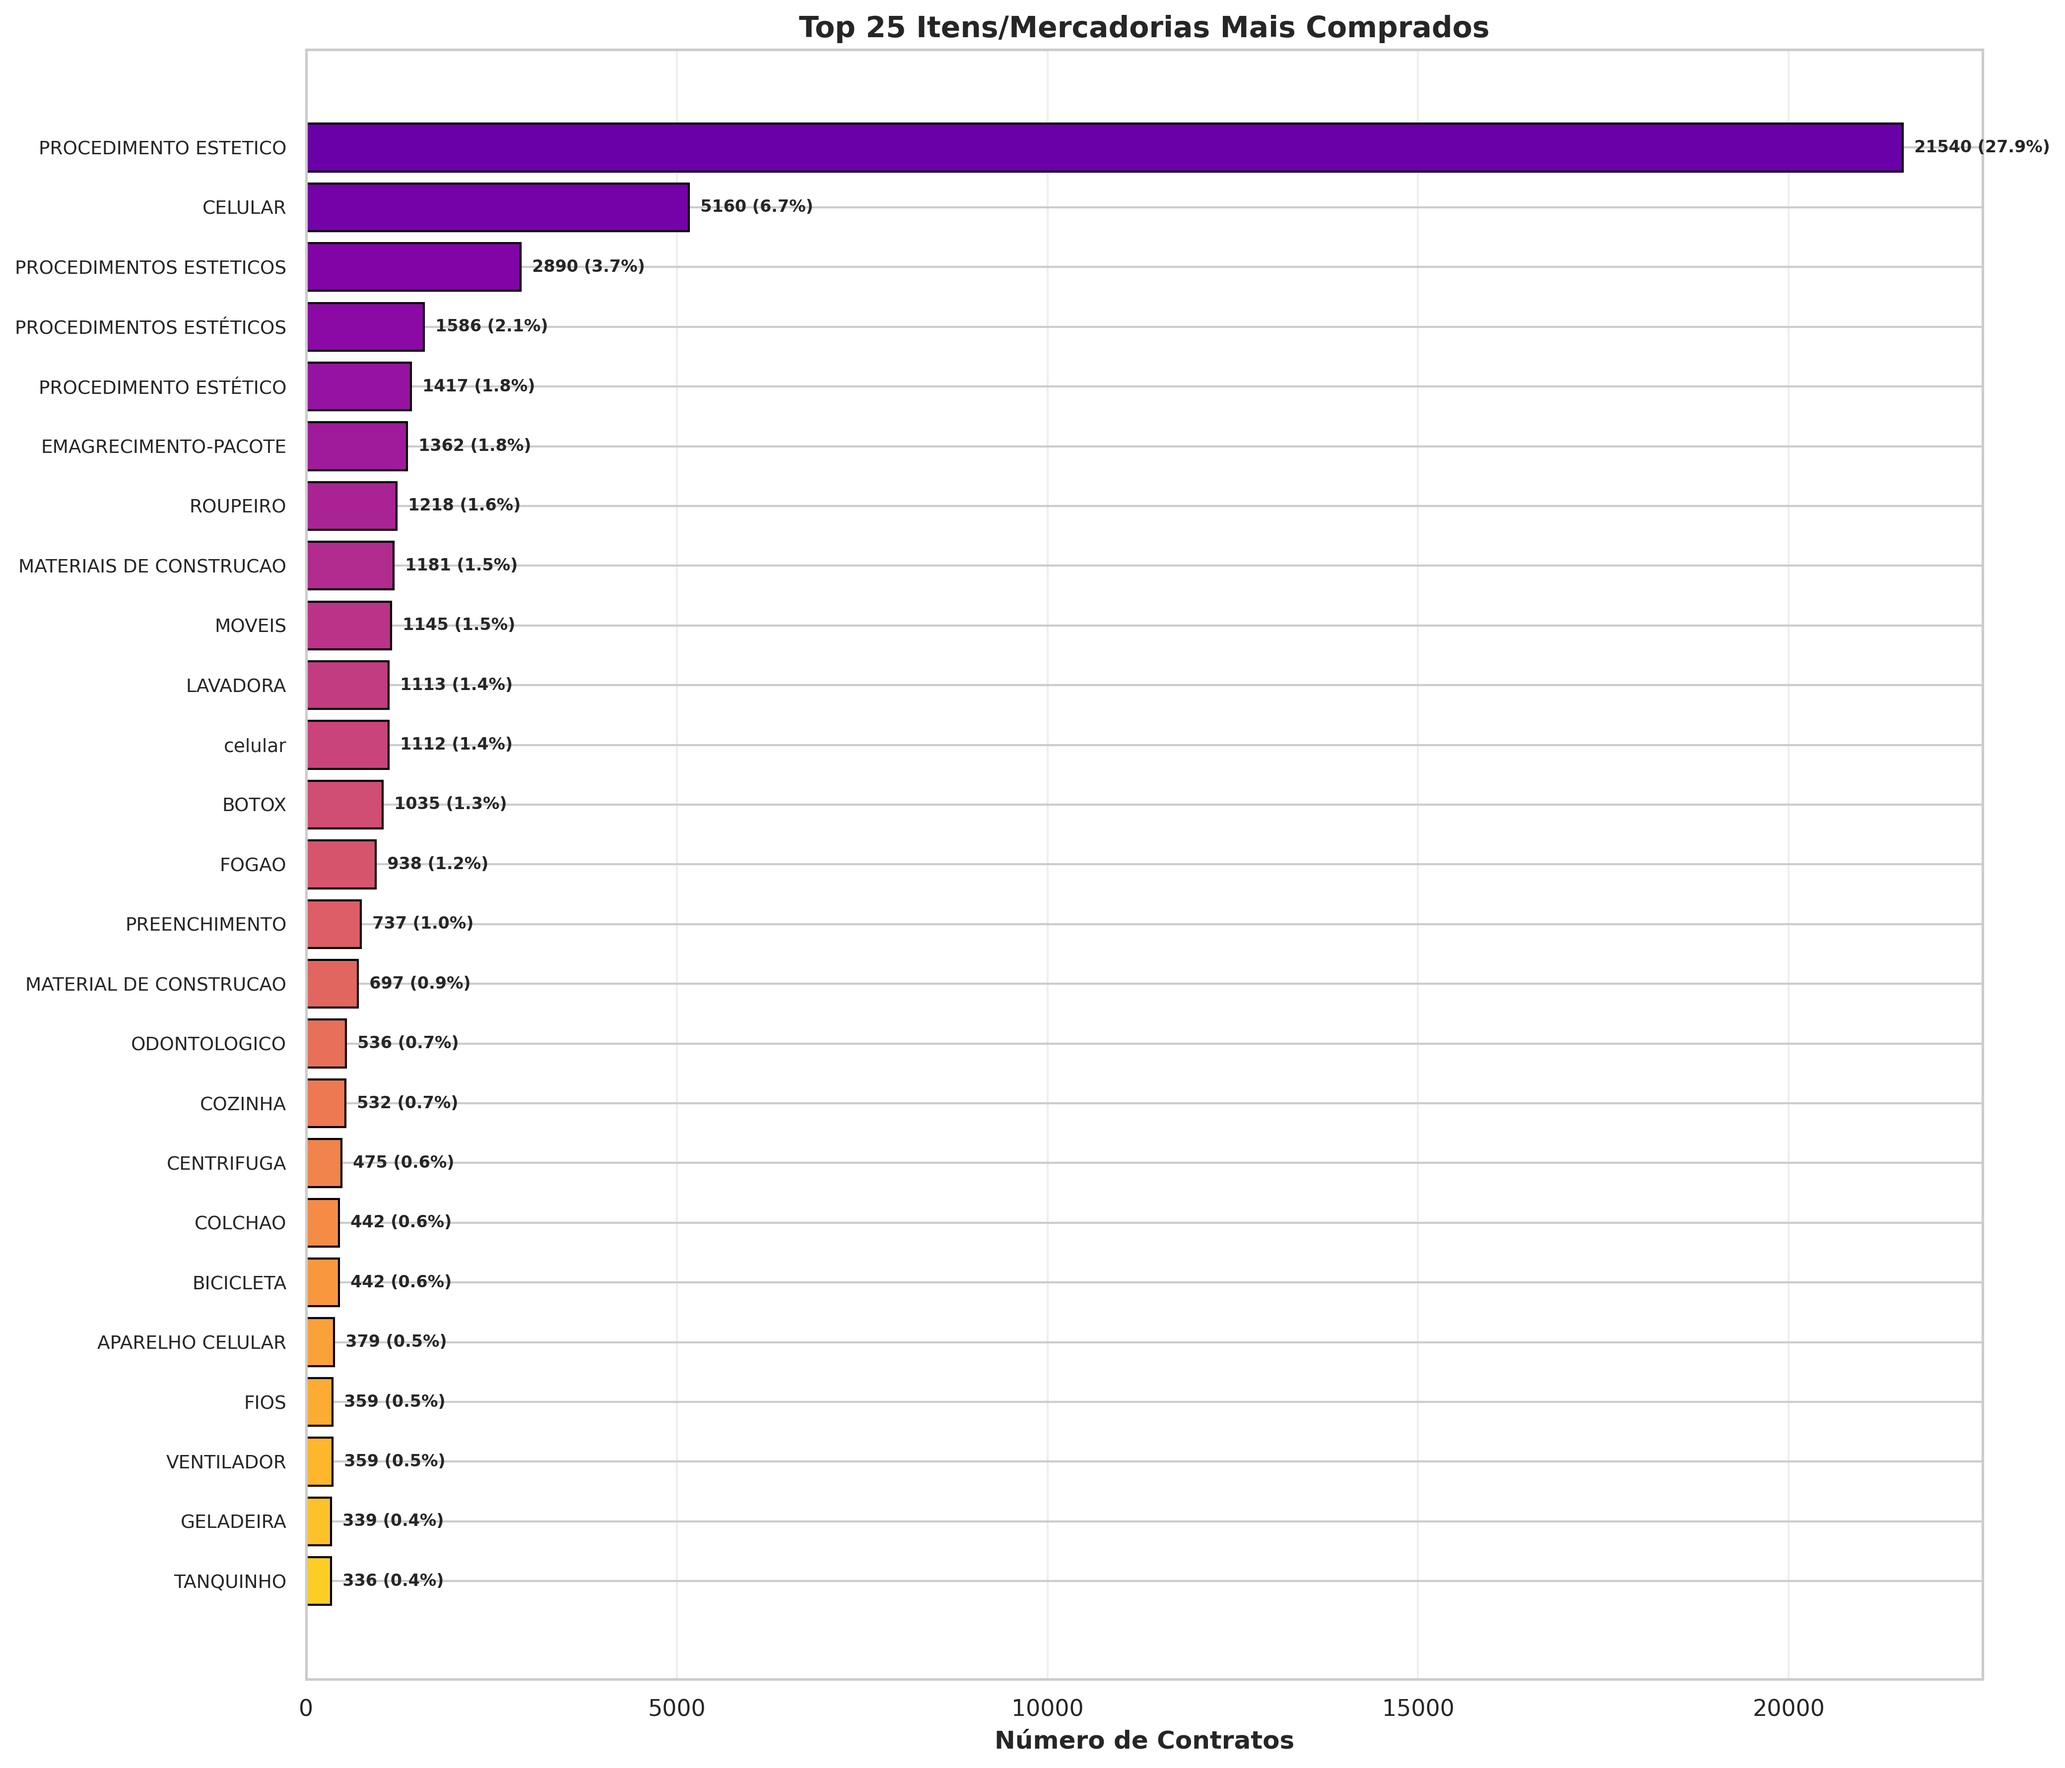
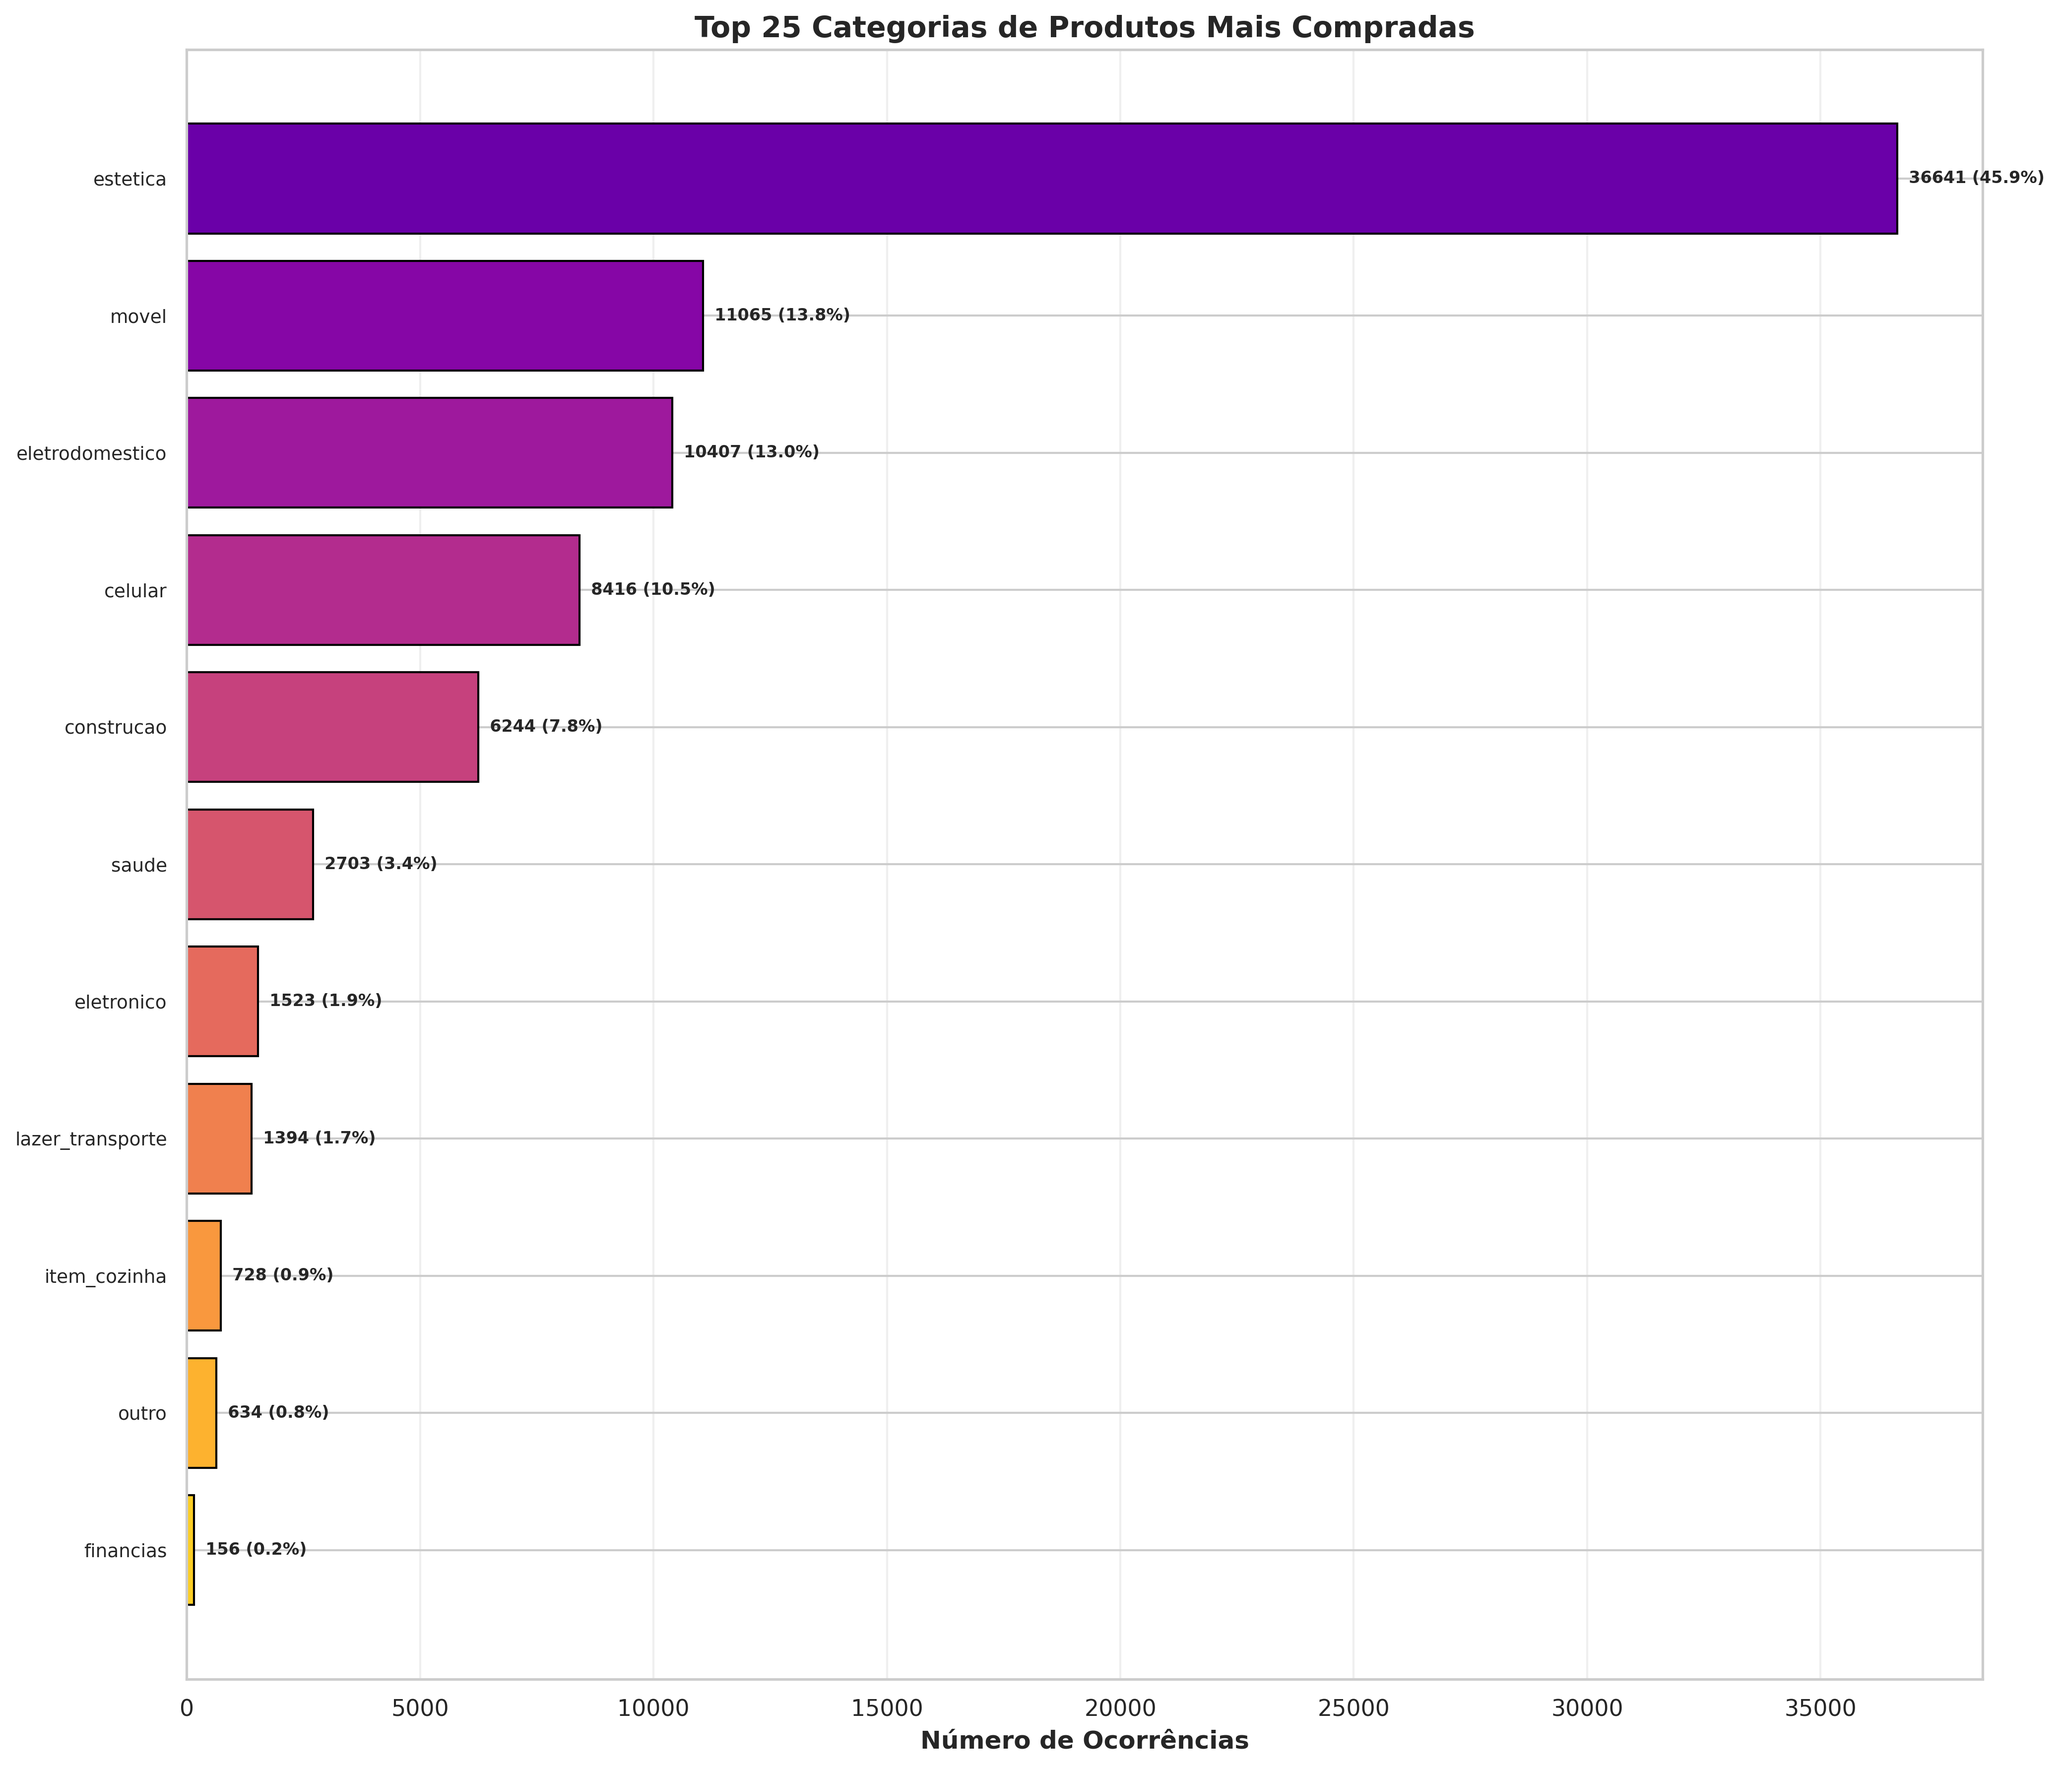
fix: Corrige análise de produtos para usar coluna 'categorias' normalizada
- Altera plot_itens_comprados() para usar 'categorias' ao invés de 'Mercadoria'
- Resolve problema de duplicatas (ex: 'procedimento estetico' vs 'procedimentos esteticos')
- A coluna 'categorias' já vem normalizada do processamento do dataset
- Suporta múltiplas categorias por contrato (expande listas)
- Atualiza relatório para mostrar top 5 categorias normalizadas
- Renomeia pasta code/analises_exploratorias -> code/analises_exploratorias_dataset1
- Atualiza gráfico 06_itens_comprados.png com categorias normalizadas

Benefícios:
- Agrupa variações de texto da mesma categoria
- Contagem mais precisa de produtos
- Visualização mais clara das categorias principais

diff --git a/code/analise_exploratoria_teste_externo/analise_exploratoria.py b/code/analise_exploratoria_teste_externo/analise_exploratoria.py
@@ -335,39 +335,82 @@ def plot_profissoes_comuns(df):
 
 
 def plot_itens_comprados(df):
-    """Gráfico dos itens/mercadorias mais comprados"""
+    """Gráfico das categorias de produtos mais compradas"""
     print("\n" + "="*80)
-    print("ANÁLISE DE PRODUTOS/MERCADORIAS")
+    print("ANÁLISE DE CATEGORIAS DE PRODUTOS")
     print("="*80)
     
-    if 'Mercadoria' not in df.columns:
-        print("⚠ AVISO: Coluna 'Mercadoria' não encontrada")
+    # Priorizar coluna 'categorias' (normalizada) ao invés de 'Mercadoria' (com variações)
+    if 'categorias' in df.columns:
+        print("✓ Usando coluna 'categorias' (normalizada)")
+        
+        # Expandir listas de categorias (um contrato pode ter múltiplas categorias)
+        from collections import Counter
+        todas_categorias = []
+        for cats in df['categorias'].dropna():
+            if isinstance(cats, list):
+                todas_categorias.extend(cats)
+            elif isinstance(cats, str):
+                # Se for string, pode estar em formato de lista
+                try:
+                    import ast
+                    cats_list = ast.literal_eval(cats) if cats.startswith('[') else [cats]
+                    todas_categorias.extend(cats_list)
+                except:
+                    todas_categorias.append(cats)
+        
+        if not todas_categorias:
+            print("⚠ AVISO: Nenhuma categoria encontrada")
+            return
+        
+        # Contar categorias
+        contador = Counter(todas_categorias)
+        top_categorias = dict(contador.most_common(25))
+        
+        print(f"\n--- Top 25 Categorias Mais Compradas ---")
+        print(f"Total de contratos analisados: {len(df):,}")
+        print(f"Total de categorias (pode haver múltiplas por contrato): {len(todas_categorias):,}")
+        for i, (item, count) in enumerate(top_categorias.items(), 1):
+            perc = count / len(todas_categorias) * 100
+            print(f"{i:2d}. {item:50s} - {count:5d} ocorrências ({perc:5.2f}%)")
+        
+        # Preparar dados para o gráfico
+        categorias_nomes = list(top_categorias.keys())
+        categorias_valores = list(top_categorias.values())
+        
+    elif 'Mercadoria' in df.columns:
+        print("⚠ Usando coluna 'Mercadoria' (pode ter duplicatas por variações de texto)")
+        mercadorias = df['Mercadoria'].dropna()
+        top_mercadorias = mercadorias.value_counts().head(25)
+        
+        print(f"\n--- Top 25 Itens/Mercadorias Mais Comprados ---")
+        for i, (item, count) in enumerate(top_mercadorias.items(), 1):
+            perc = count / len(df) * 100
+            print(f"{i:2d}. {item:50s} - {count:5d} contratos ({perc:5.2f}%)")
+        
+        categorias_nomes = list(top_mercadorias.index)
+        categorias_valores = list(top_mercadorias.values)
+    else:
+        print("⚠ ERRO: Nem 'categorias' nem 'Mercadoria' encontradas")
         return
-    
-    mercadorias = df['Mercadoria'].dropna()
-    top_mercadorias = mercadorias.value_counts().head(25)
-    
-    print(f"\n--- Top 25 Itens/Mercadorias Mais Comprados ---")
-    for i, (item, count) in enumerate(top_mercadorias.items(), 1):
-        perc = count / len(df) * 100
-        print(f"{i:2d}. {item:50s} - {count:5d} contratos ({perc:5.2f}%)")
     
     # Gráfico
     fig, ax = plt.subplots(figsize=(14, 12))
-    y_pos = range(len(top_mercadorias))
-    colors = plt.cm.plasma(np.linspace(0.2, 0.9, len(top_mercadorias)))
+    y_pos = range(len(categorias_nomes))
+    colors = plt.cm.plasma(np.linspace(0.2, 0.9, len(categorias_nomes)))
     
-    ax.barh(y_pos, top_mercadorias.values, color=colors, edgecolor='black')
+    ax.barh(y_pos, categorias_valores, color=colors, edgecolor='black')
     ax.set_yticks(y_pos)
-    ax.set_yticklabels(top_mercadorias.index, fontsize=9)
-    ax.set_xlabel("Número de Contratos", fontsize=12, fontweight='bold')
-    ax.set_title("Top 25 Itens/Mercadorias Mais Comprados", fontsize=14, fontweight='bold')
+    ax.set_yticklabels(categorias_nomes, fontsize=9)
+    ax.set_xlabel("Número de Ocorrências", fontsize=12, fontweight='bold')
+    ax.set_title("Top 25 Categorias de Produtos Mais Compradas", fontsize=14, fontweight='bold')
     ax.invert_yaxis()
     ax.grid(True, alpha=0.3, axis='x')
     
     # Adicionar valores nas barras
-    for i, v in enumerate(top_mercadorias.values):
-        perc = v / len(df) * 100
+    total = sum(categorias_valores) if 'categorias' in df.columns else len(df)
+    for i, v in enumerate(categorias_valores):
+        perc = v / total * 100
         ax.text(v, i, f'  {v} ({perc:.1f}%)', va='center', fontweight='bold', fontsize=8)
     
     plt.tight_layout()
@@ -517,8 +560,31 @@ def generate_summary_report(df):
                 f.write(f"{i}. {prof}: {count:,} ({count/len(df)*100:.2f}%)\n")
             f.write("\n")
         
-        if 'Mercadoria' in df.columns:
-            f.write("--- TOP 5 PRODUTOS ---\n")
+        # Usar 'categorias' (normalizada) ao invés de 'Mercadoria'
+        if 'categorias' in df.columns:
+            f.write("--- TOP 5 CATEGORIAS DE PRODUTOS ---\n")
+            # Expandir listas de categorias
+            from collections import Counter
+            todas_categorias = []
+            for cats in df['categorias'].dropna():
+                if isinstance(cats, list):
+                    todas_categorias.extend(cats)
+                elif isinstance(cats, str):
+                    try:
+                        import ast
+                        cats_list = ast.literal_eval(cats) if cats.startswith('[') else [cats]
+                        todas_categorias.extend(cats_list)
+                    except:
+                        todas_categorias.append(cats)
+            
+            if todas_categorias:
+                contador = Counter(todas_categorias)
+                top_cat = contador.most_common(5)
+                for i, (cat, count) in enumerate(top_cat, 1):
+                    f.write(f"{i}. {cat}: {count:,} ({count/len(todas_categorias)*100:.2f}%)\n")
+            f.write("\n")
+        elif 'Mercadoria' in df.columns:
+            f.write("--- TOP 5 PRODUTOS (Mercadoria - pode ter duplicatas) ---\n")
             top_prod = df['Mercadoria'].value_counts().head(5)
             for i, (prod, count) in enumerate(top_prod.items(), 1):
                 f.write(f"{i}. {prod}: {count:,} ({count/len(df)*100:.2f}%)\n")
